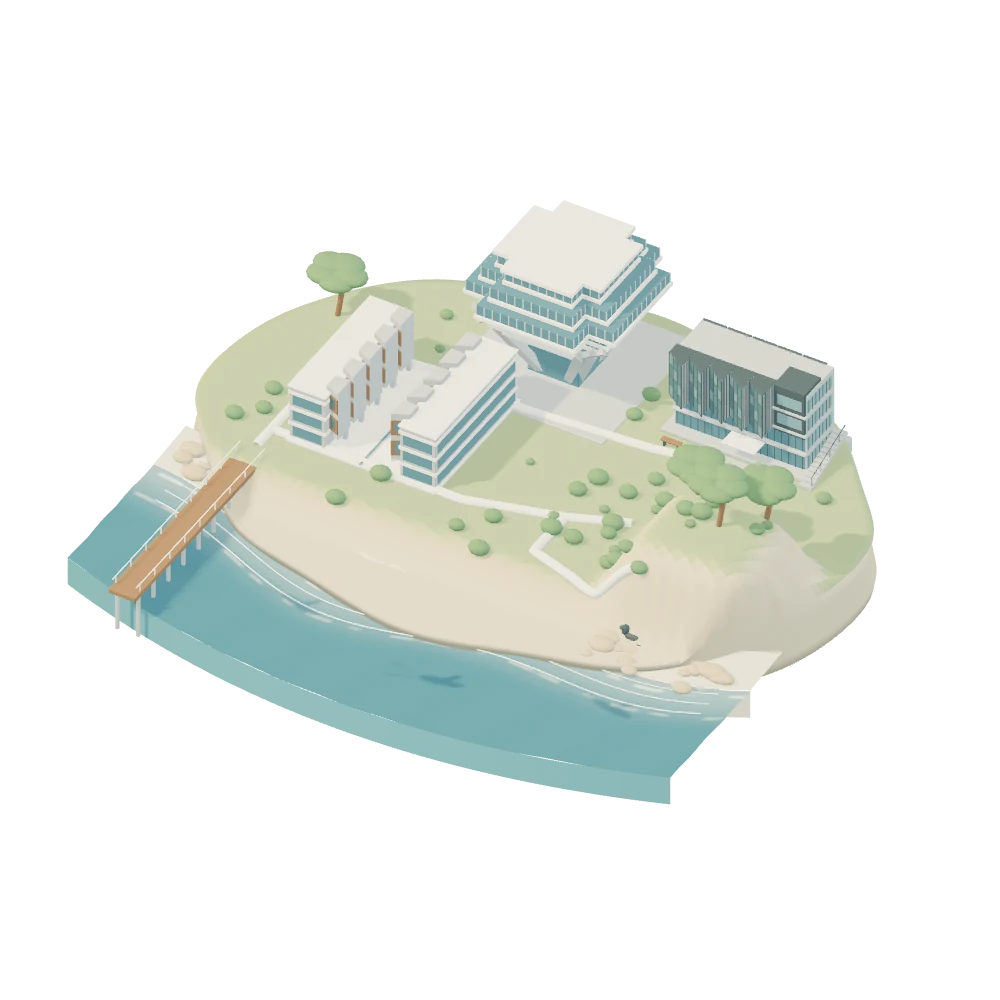
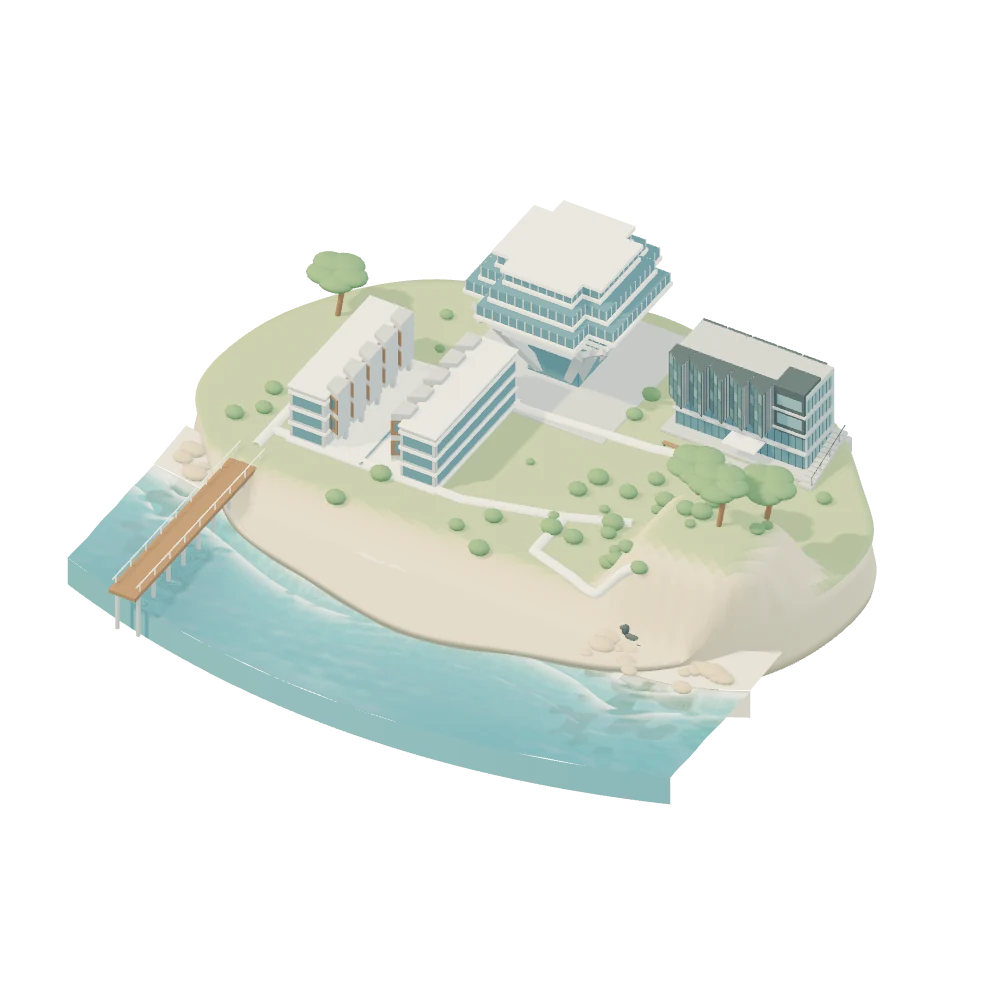
test: Check the real sunset and dusk on one clock, and render the stills again
A new footer-coast case follows the clock on 2026-10-19: eight minutes before La Jolla's
sunset the site keeps its afternoon theme while the sun's disk stands on the sea horizon,
the marine layer lies over the surf line and the credit keeps 4.5:1; at 18:30 the theme,
the sun arc's label and the credit's ink agree it is evening. Registered in scene-footer-light.

All twelve stills were rendered again together, so they share a new cache version: the
miniature's show its new sea and posed surfers; the coast's are unchanged within WebP noise.

Changed region(s): [[0.124, 0.496, 0.744, 0.775], [0.093, 0.465, 0.186, 0.558], [0.651, 0.434, 0.682, 0.465]]

diff --git a/test/visual/footer-coast.spec.js b/test/visual/footer-coast.spec.js
@@ -312,6 +312,55 @@ test("coastal sea: a mirror drawn on demand, night glitter from the fire and pie
   await attachScreenshot(page, testInfo, "coast-sea-night", { locator: page.locator("footer") });
   expect(errors).toEqual([]);
 });
+test("coastal sky: La Jolla's real sunset and dusk keep the theme, the credit and the coast on one clock", async ({ page }, testInfo) => {
+  test.skip(!["desktop-1440", "mobile-390"].includes(testInfo.project.name));
+  const errors = collectRuntimeErrors(page);
+  await page.emulateMedia({ reducedMotion: "reduce" });
+  // 2026-10-19 in La Jolla: sunset 18:12 PDT; the sun is 3 degrees down, and the site turns evening, at 18:23.
+  const at = async (time) => {
+    await page.clock.install({ time: new Date(`2026-10-19T${time}:00-07:00`) });
+    await preparePage(page, "noon");
+    await page.addInitScript(() => {
+      for (const key of ["theme", "theme-manual", "site-time"]) sessionStorage.removeItem(key);
+      localStorage.removeItem("theme");
+    });
+    await page.goto(publicRouteUrl("/"), { waitUntil: "domcontentloaded" });
+    const host = page.locator("footer [data-footer-coast]");
+    await host.scrollIntoViewIfNeeded();
+    await expect(host).toHaveAttribute("data-state", "ready", { timeout: 30000 });
+    return host;
+  };
+  // Eight minutes before sunset: the afternoon theme, the sun's disk on the sea horizon, its glitter
+  // path, the marine layer over the surf line, and a legible credit under its warm halo.
+  let host = await at("18:04");
+  await expect(page.locator("html")).toHaveAttribute("data-theme-mode", "afternoon");
+  let info = await evidence(host);
+  expect(info.sun.rising).toBe(false);
+  expect(info.sun.altitude).toBeGreaterThan(0);
+  expect(info.sun.altitude).toBeLessThan(2);
+  expect(info.sky.visible).toBe(true);
+  expect(info.sky.sun, "the disk stands over the sea").not.toBeNull();
+  expect(info.marineLayer.visible).toBe(true);
+  expect(info.water.reflection.renders).toBeGreaterThanOrEqual(1);
+  let contrast = await creditContrast(page);
+  expect(contrast.median, "credit contrast at sunset").toBeGreaterThanOrEqual(4.5);
+  await testInfo.attach("credit-contrast-sunset", { body: JSON.stringify(contrast), contentType: "application/json" });
+  await attachScreenshot(page, testInfo, "coast-sunset", { locator: page.locator("footer") });
+  // Dusk: past the turn the whole site, the sun arc's label and the credit's ink agree it is evening.
+  host = await at("18:30");
+  await expect(page.locator("html")).toHaveAttribute("data-theme-mode", "evening");
+  await expect(page.locator("#theme-menu [data-sun-knob]")).toHaveAttribute("aria-valuetext", "Evening, 6:30 pm");
+  info = await evidence(host);
+  expect(info.sun.altitude).toBeLessThan(-3);
+  expect(info.sky.visible).toBe(true);
+  expect(info.sky.sun, "the sun has set").toBeNull();
+  contrast = await creditContrast(page);
+  expect(contrast.median, "credit contrast at dusk").toBeGreaterThanOrEqual(4.5);
+  await testInfo.attach("credit-contrast-dusk", { body: JSON.stringify(contrast), contentType: "application/json" });
+  await attachScreenshot(page, testInfo, "coast-dusk", { locator: page.locator("footer") });
+  expect(errors).toEqual([]);
+});
+
 test("coastal scenes: lazy loading, automatic movement, offscreen pause and reversible reveal", async ({ page }, testInfo) => {
   test.skip(!["desktop-1440", "mobile-390"].includes(testInfo.project.name));
   const errors = collectRuntimeErrors(page),
